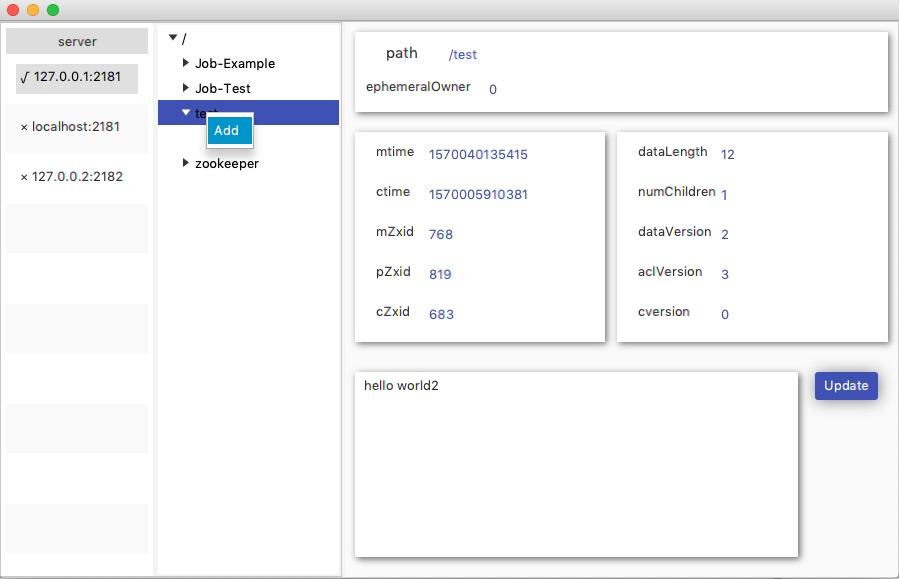
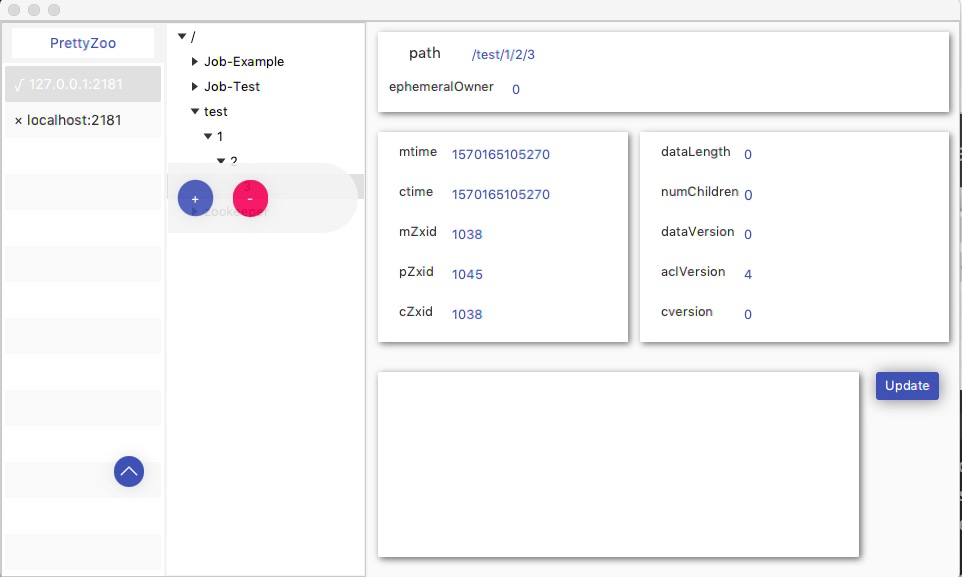
update README

diff --git a/README.md b/README.md
@@ -27,15 +27,15 @@ java -jar PrettyZoo.jar
 
 - you can add / delete / update node
 
+- recursive mode: add / delete node recursively
+
 ## TODO
 
 - [ ] support node search
 
-- [ ] support recursive delete / add (now you can only delete leaf node and add one children)
+- [x] support recursive delete / add (now you can only delete leaf node and add one children)
 
 - [ ] support ACL
-
-- [ ] support Proxy
 
 - [ ] more strictly check of input, and more friendly reminder
 
@@ -47,7 +47,9 @@ java -jar PrettyZoo.jar
 
 ![](release/example/main.jpg)
 
-### Right click to add server
+![](release/example/main-2.jpg)
+
+### add server
 
 ![](release/example/addServer.jpg)
 
@@ -55,11 +57,7 @@ java -jar PrettyZoo.jar
 
 ![](release/example/syncNode.jpg)
 
-### delete node
-
-![](release/example/deleteLeafNode.jpg)
-
-### add node
+### right click item to add / delete node
 
 ![](release/example/addNode-01.jpg)
 
